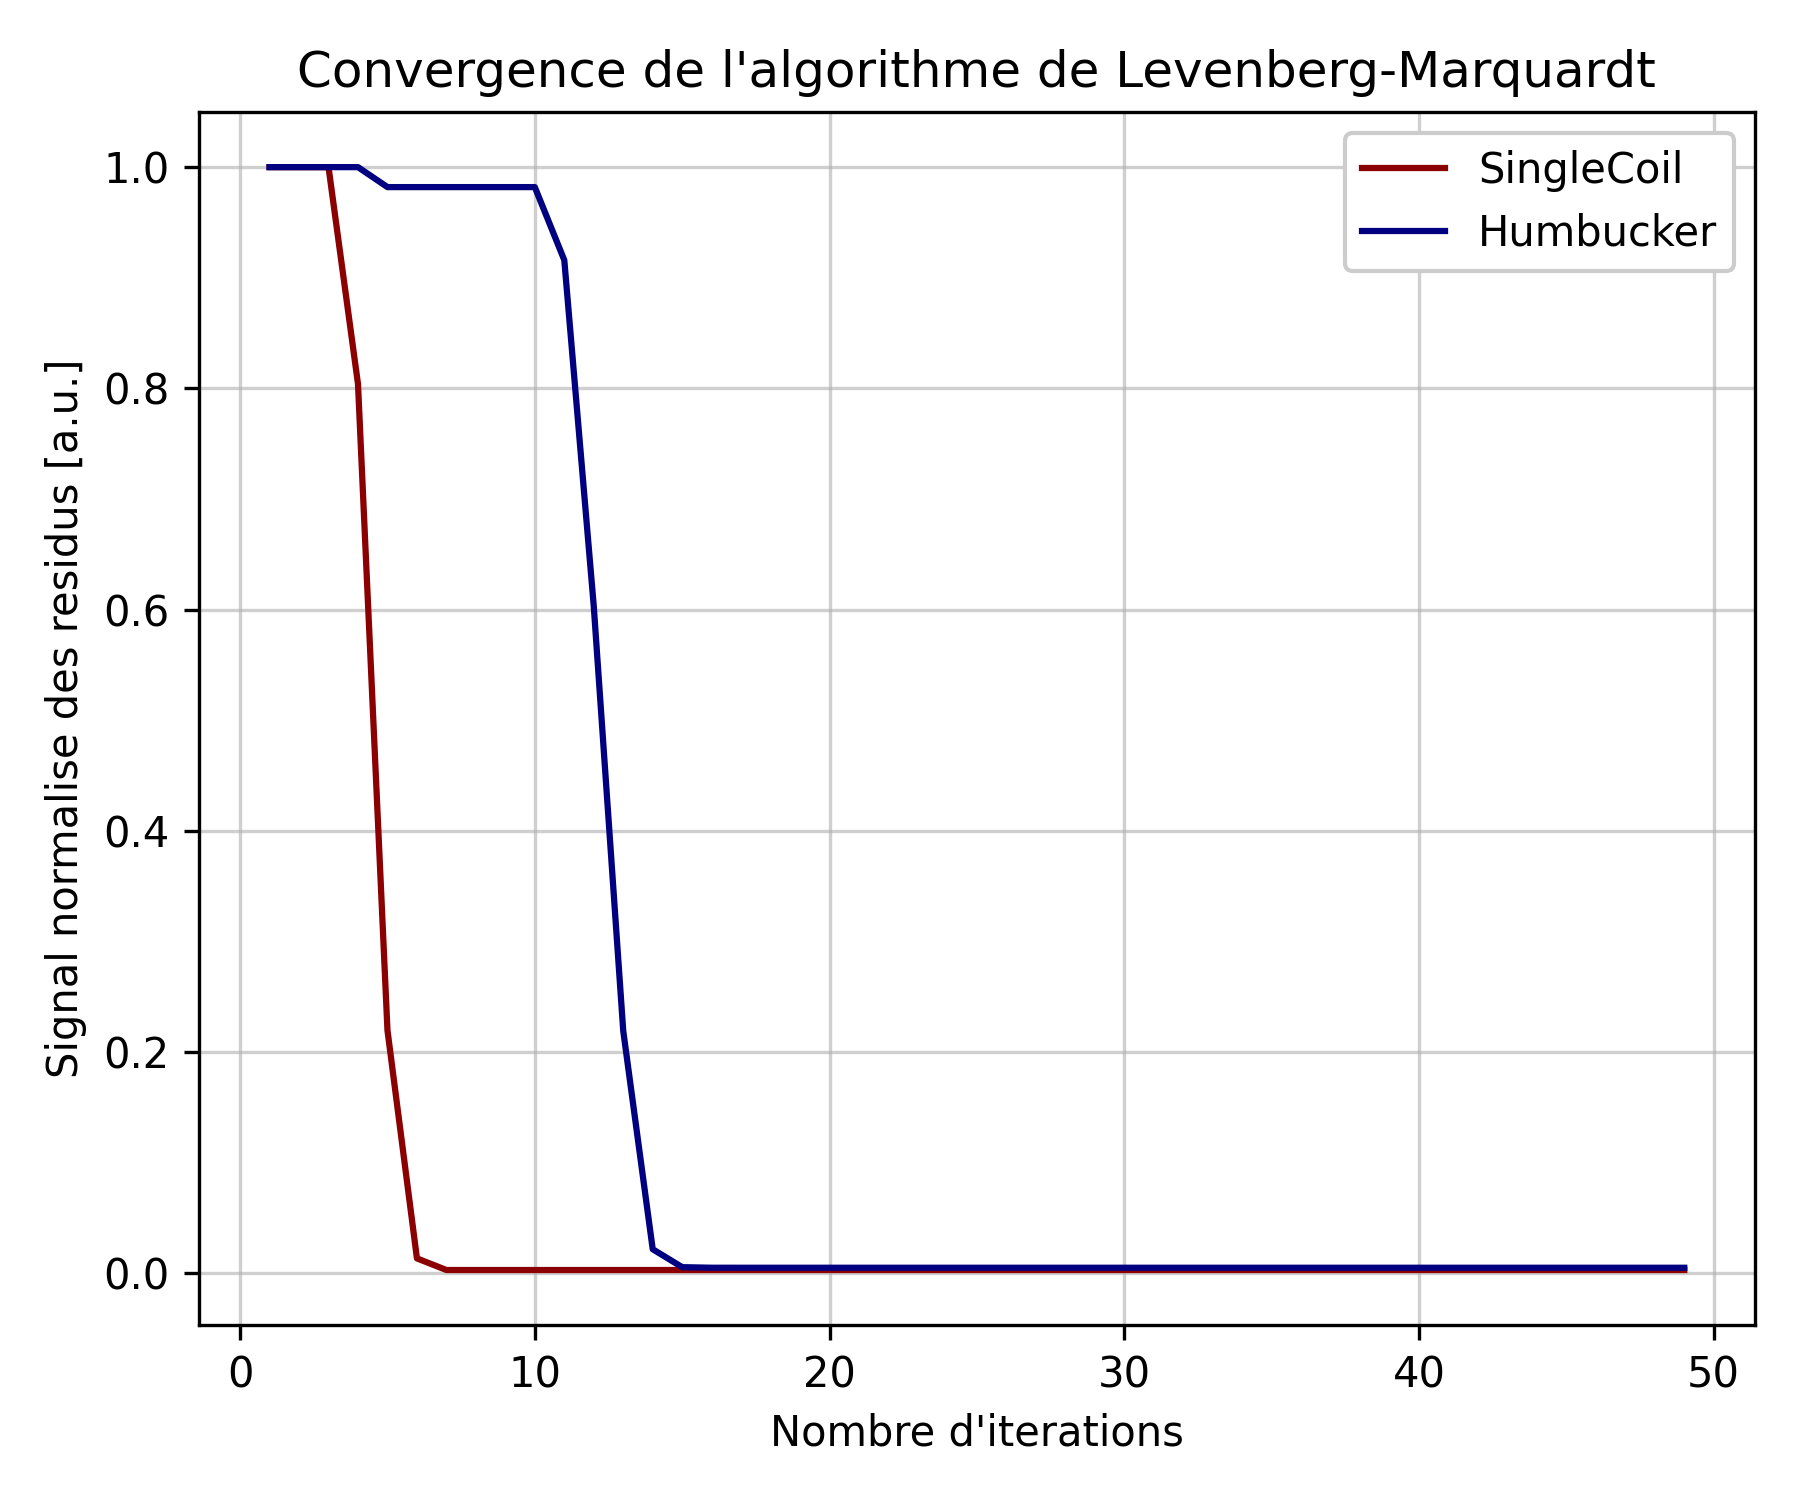
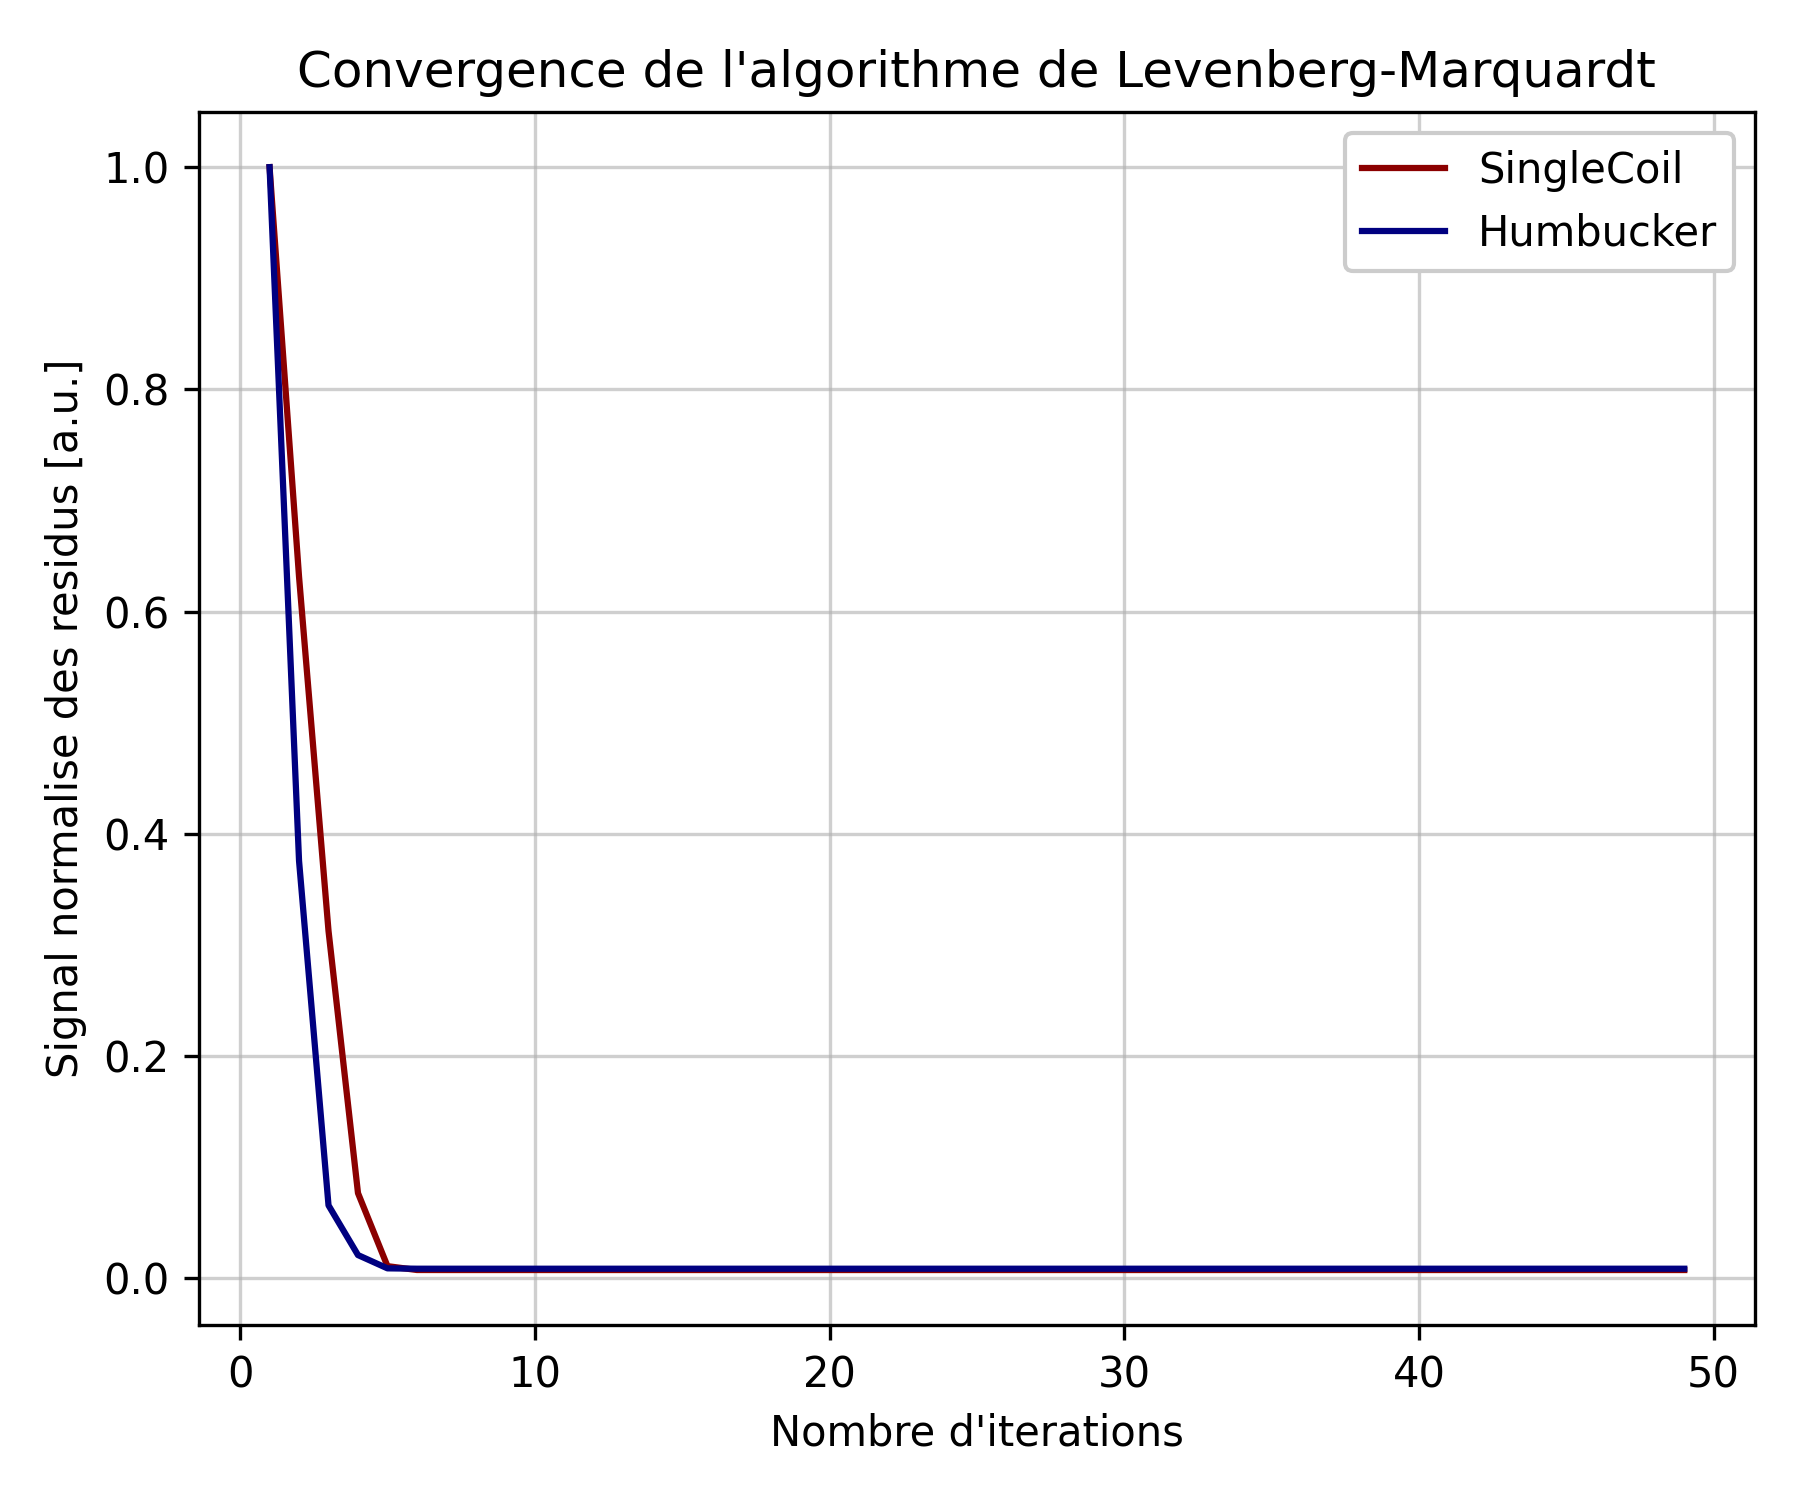
Refactor Levenberg-Marquardt function to include learning rate parameter and update algorithm logic

diff --git a/Python/library/Modelisation.py b/Python/library/Modelisation.py
@@ -200,7 +200,7 @@ def residus(X:np.ndarray, rs:float, f:np.ndarray, Z_exp:np.ndarray)-> np.ndarray
     """
     return Z_exp - Z_micro(X, rs, 2 * np.pi * f)
 
-def Levenberg_Marquardt(X_init:np.ndarray, rs:float, f:np.ndarray, Z_exp:np.ndarray, N:int)-> tuple[np.ndarray, float]:
+def Levenberg_Marquardt(X_init:np.ndarray, rs:float, f:np.ndarray, Z_exp:np.ndarray, N:int, learning_rate:float):
     """Algorythme de Levenberg-Marquardt pour l'optimisation non-lineaire des parametres electriques du micro
 
     Args:
@@ -216,7 +216,7 @@ def Levenberg_Marquardt(X_init:np.ndarray, rs:float, f:np.ndarray, Z_exp:np.ndar
             Rp la resistance parallèle [kOhm] modelisant les courants de foucauts
     """
     X = np.array(X_init, dtype=float)
-    alpha = 0.01
+    alpha = learning_rate
     v = 2
     r = None
     S = None
@@ -251,7 +251,7 @@ def Levenberg_Marquardt(X_init:np.ndarray, rs:float, f:np.ndarray, Z_exp:np.ndar
         else:
             alpha *= v
             
-    return X, S
+    return X, S_new
 
 def calcul_bode(X:np.ndarray, rs:float, f:np.ndarray, Ramp:float=1e6)-> tuple[np.ndarray, np.ndarray]:
     """Calcul la fonction de transfert en gain et phase d'un micro de guitare en fonction de ses parametres internes

diff --git a/Python/Code/Algo_bode.py b/Python/Code/Algo_bode.py
@@ -78,12 +78,13 @@ Z_hb = Ramp * (Vh / (24000 - Vh))
 # --- Execution ---
 # Initialisation suggeree : L=2H, C=0.5nF, Rp=300kOhm
 
+LR = 0.5
 Liste_S_sc = []
 Liste_S_hb = []
 liste_iter = []
 for i in range(1, 50):
-    _, S_sc = mod.Levenberg_Marquardt(X0, Rs, f, Z_sc, i)
-    _, S_hb = mod.Levenberg_Marquardt(X0, Rh, f, Z_hb, i)
+    _, S_sc = mod.Levenberg_Marquardt(X0, Rs, f, Z_sc, i, LR)
+    _, S_hb = mod.Levenberg_Marquardt(X0, Rh, f, Z_hb, i, LR)
     Liste_S_sc.append(S_sc)
     Liste_S_hb.append(S_hb)
     liste_iter.append(i)
@@ -91,8 +92,8 @@ for i in range(1, 50):
 Liste_S_sc = mod.normalize_signal(np.array(Liste_S_sc))
 Liste_S_hb = mod.normalize_signal(np.array(Liste_S_hb))
 
-X_sc, S_sc = mod.Levenberg_Marquardt(X0, Rs, f, Z_sc, 20)
-X_hb, S_hb = mod.Levenberg_Marquardt(X0, Rh, f, Z_hb, 20)
+X_sc, S_sc = mod.Levenberg_Marquardt(X0, Rs, f, Z_sc, 20, LR)
+X_hb, S_hb = mod.Levenberg_Marquardt(X0, Rh, f, Z_hb, 20, LR)
 
 print(f"SingleCoil: L={X_sc[0]:.2f}H, C={X_sc[1]:.2f}nF, Rp={X_sc[2]:.1f}kOhm")
 print(f"Humbucker: L={X_hb[0]:.2f}H, C={X_hb[1]:.2f}nF, Rp={X_hb[2]:.1f}kOhm")
